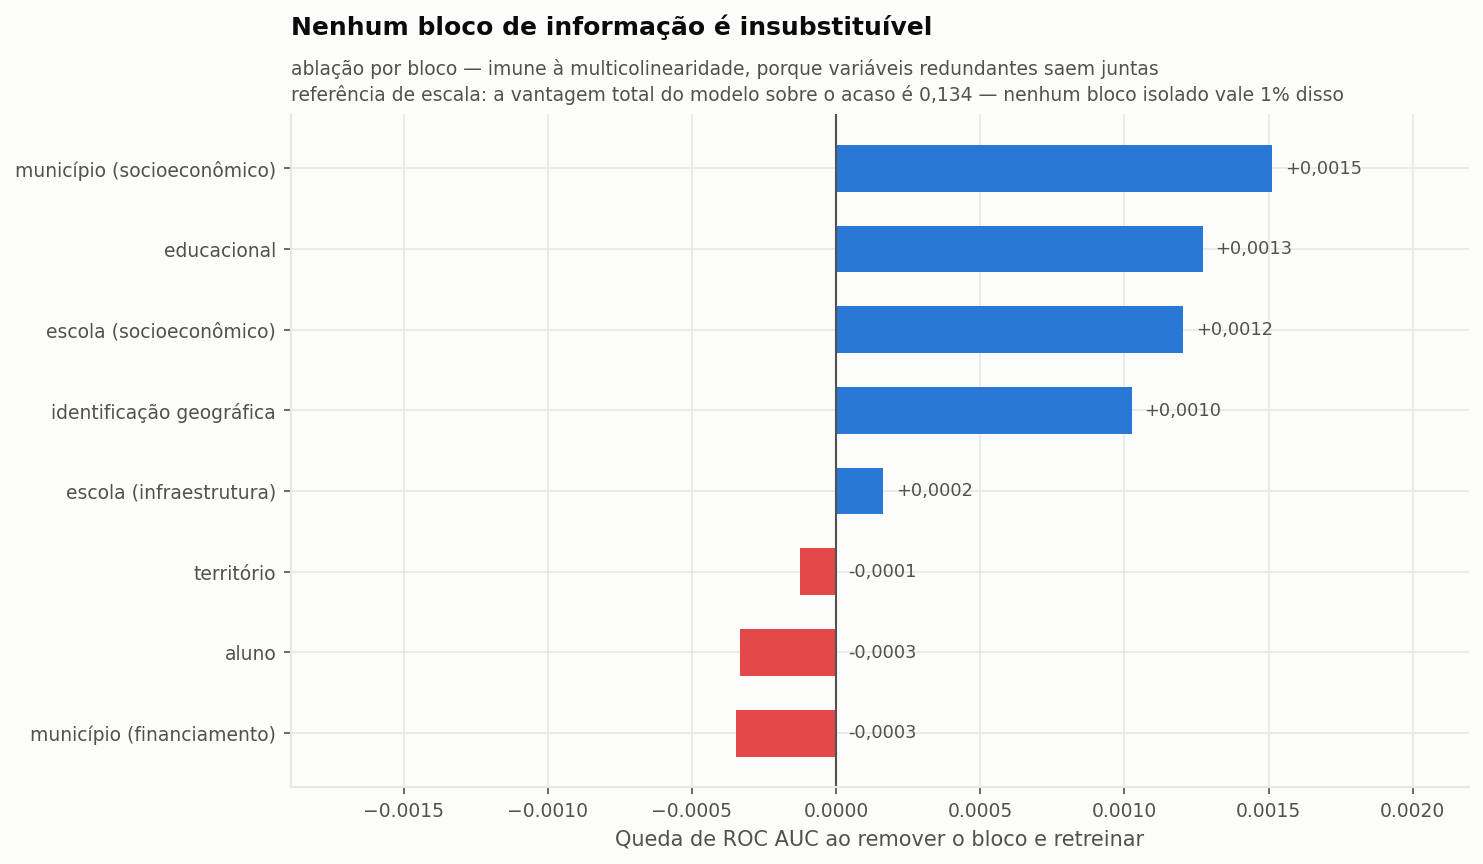
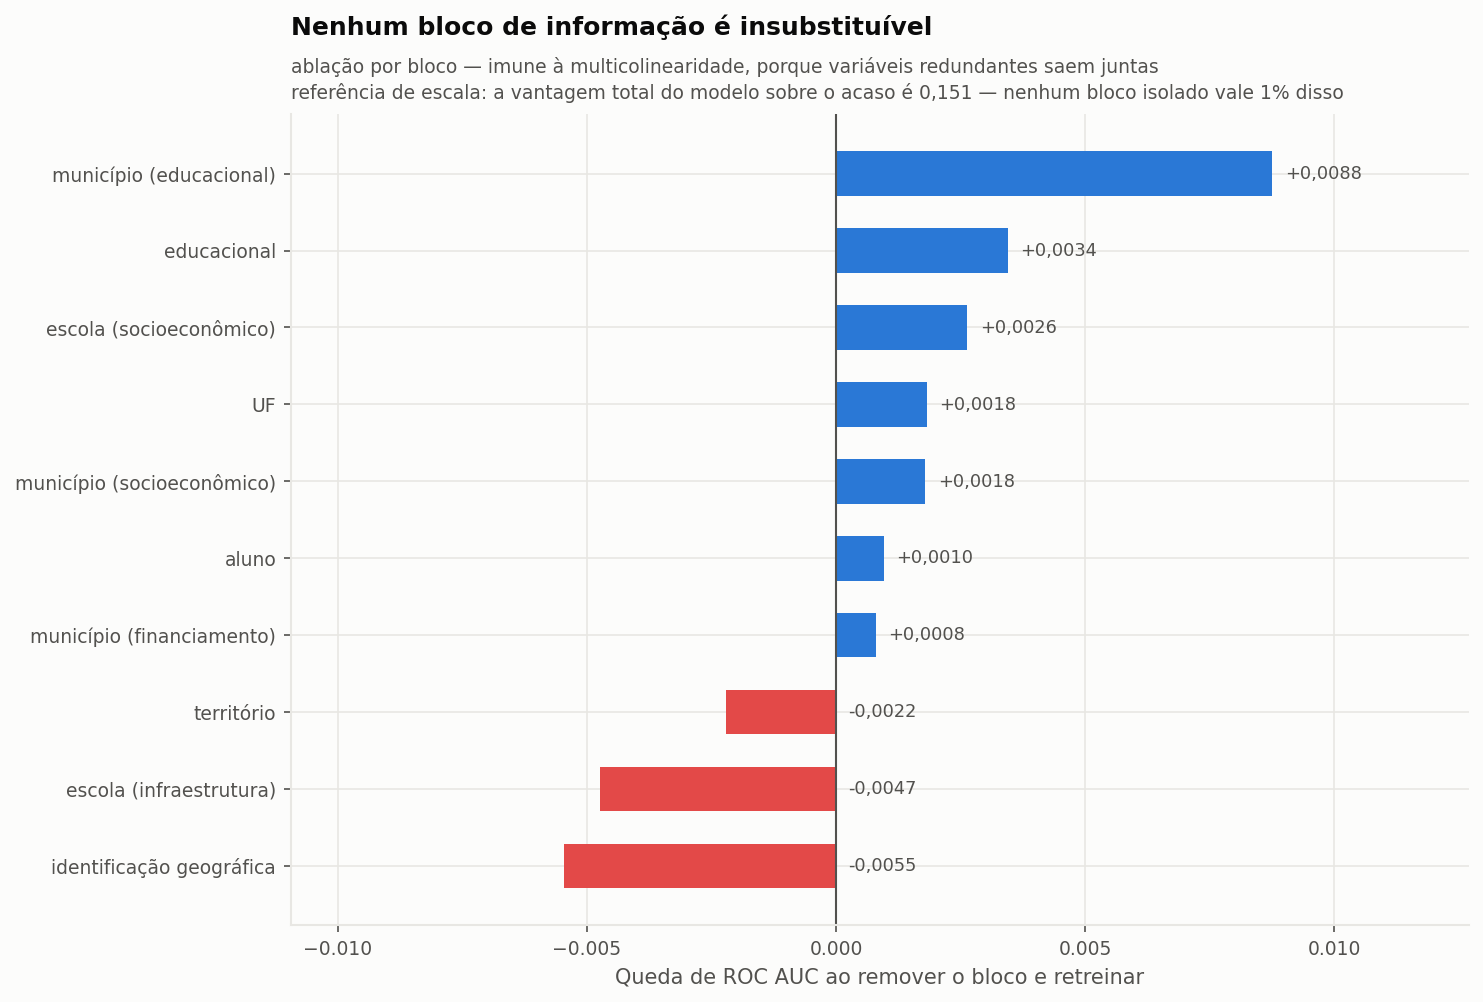
feat: ablação do Modelo B — a mesma variável ajuda ou atrapalha conforme a pergunta
A ablação do Modelo A tinha mostrado que nenhum bloco de features era
insubstituível: tudo variava dentro de 0,0015 de AUC. A do Modelo B separa os blocos
e produz o achado mais forte do projeto.

Retirar o bloco `mun_lag_*` custa **0,0088 de AUC**, mais que o dobro do segundo
colocado. É a resposta limpa a "quanto vale conhecer o passado do município?",
medida no mesmo treino e no mesmo teste — comparar a AUC do Modelo A com a do B não
responderia isso, porque os conjuntos de teste são diferentes.

E o inverso: **remover `id_municipio` e `sigla_uf` MELHORA o Modelo B em 0,0055**. No
Modelo A essa mesma variável é a mais importante por permutação (0,0600). Não há
contradição — quando os municípios de teste são novos, o target encoding devolve a
média global para todos e o que era informação vira ruído. O mesmo vale, em menor
grau, para infraestrutura escolar (−0,0047) e território (−0,0022).

A consequência é prática: não existe conjunto de features ótimo em abstrato. Um
Modelo B enxuto, sem esses três blocos, chegaria a AUC ≈ 0,66 — acima do completo. A
seleção de features é parte da especificação da pergunta, e isso entrou nas
evoluções futuras.

Também nesta leva: figuras da aplicação regeneradas para os dois desenhos, com o
resíduo ajustado pela UF e a caracterização dos cinco perfis municipais.

19 testes passando.

diff --git a/README.md b/README.md
@@ -621,8 +621,8 @@ município:
 | `ter_mesorregiao` | 0,0026 |
 | *cada uma das outras 122 variáveis* | < 0,001 |
 
-**A ablação** diz que nada disso é insubstituível. Removendo cada bloco temático
-inteiro e **retreinando**:
+**A ablação** diz que, *neste desenho*, nada disso é insubstituível. Removendo cada
+bloco temático inteiro e **retreinando** (Modelo A — treino 2023, teste 2024):
 
 | bloco removido | features restantes | ROC AUC | queda |
 |---|---:|---:|---:|
@@ -637,7 +637,8 @@ inteiro e **retreinando**:
 | município (financiamento) | 111 | 0,6341 | −0,0004 |
 
 Remover `id_municipio` e `sigla_uf` — as variáveis que a permutação aponta como
-dominantes — custa **0,0010**. Nenhum bloco, de nenhum tamanho, vale mais que 0,0015.
+dominantes — custa **0,0010**. No Modelo A, nenhum bloco, de nenhum tamanho, vale mais
+que 0,0015. (No Modelo B a história é outra, e o contraste é o assunto de §8.10.)
 
 **Não há contradição: as duas métricas respondem a perguntas diferentes.** A permutação
 pergunta *"em que este modelo ajustado se apoia?"*; a ablação pergunta *"que
@@ -685,6 +686,47 @@ vias para o mesmo sinal: a identidade do município, quando disponível, e o **c
 regional mais indicadores defasados**, quando não. As duas funcionam. O que ele não
 consegue é operar quando *nenhuma* das duas está calibrada — o caso de um estado
 inteiramente novo, onde a AUC cai para 0,568.
+
+### 8.10 A mesma variável pode ajudar ou atrapalhar — depende da pergunta
+
+A ablação do Modelo B fecha o argumento de um jeito que a do Modelo A não conseguia,
+porque ali os blocos eram todos praticamente substituíveis. Aqui eles se separam:
+
+| bloco removido | features restantes | ROC AUC | queda |
+|---|---:|---:|---:|
+| **município (educacional)** — o histórico t-1 | 128 | 0,6425 | **+0,0088** |
+| educacional (IDEB e SAEB defasados) | 106 | 0,6478 | +0,0035 |
+| escola (socioeconômico — INSE) | 127 | 0,6486 | +0,0026 |
+| UF | 135 | 0,6494 | +0,0018 |
+| município (socioeconômico) | 99 | 0,6494 | +0,0018 |
+| aluno | 135 | 0,6503 | +0,0010 |
+| município (financiamento) | 122 | 0,6504 | +0,0008 |
+| *(modelo completo)* | 137 | 0,6512 | — |
+| território | 131 | 0,6535 | **−0,0022** |
+| escola (infraestrutura) | 115 | 0,6560 | **−0,0047** |
+| **identificação geográfica** | 135 | 0,6567 | **−0,0055** |
+
+Duas leituras, e a segunda é o achado:
+
+**Primeira — quanto vale ter memória histórica.** Retirar o bloco `mun_lag_*` custa
+**0,0088 de AUC**, mais que o dobro do segundo colocado. É a resposta limpa à pergunta
+"quanto vale conhecer o passado do município?", medida no mesmo treino e no mesmo
+teste — que é por que ela não podia ser obtida comparando a AUC do Modelo A com a do B
+(§4.3).
+
+**Segunda — `id_municipio` deixa de ajudar e passa a atrapalhar.** No Modelo A ela é a
+variável mais importante por permutação (0,0600). No Modelo B, **removê-la melhora o
+modelo em 0,0055**. Não há contradição: quando os municípios de teste são novos, o
+*target encoding* devolve a média global para todos eles, e o que era informação vira
+ruído — o modelo gasta divisões numa coluna constante. O mesmo vale, em menor grau,
+para a infraestrutura escolar (−0,0047) e o território (−0,0022).
+
+**A consequência prática é direta:** *não existe um conjunto de features ótimo em
+abstrato*. Para prever em municípios já avaliados, a identidade é o ativo mais valioso.
+Para prever em municípios novos, ela deve ser **retirada** — e um Modelo B enxuto, sem
+identificação geográfica, infraestrutura e território, chegaria a AUC ≈ 0,66, acima do
+modelo completo. O conjunto de features é parte da especificação do problema, não uma
+propriedade dos dados.
 
 ![ablação por bloco](images/13_ablacao_por_bloco.png)
 
@@ -820,6 +862,13 @@ colunas atuais.
 **Recalibrar a cada onda.** O viés medido de −3,3 p.p. (§7.4) é consequência direta de
 treinar no passado: 2024 foi melhor que 2023. Em uso recorrente, uma recalibração
 anual sobre a onda mais recente corrige o nível sem retreinar o modelo inteiro.
+
+**Selecionar features por desenho, e não uma vez só.** A ablação do Modelo B (§8.10)
+mostra que três blocos — identificação geográfica, infraestrutura escolar e território
+— **pioram** o modelo quando o alvo são municípios novos, somando 0,012 de AUC
+desperdiçados. Um Modelo B enxuto chegaria a AUC ≈ 0,66, acima do modelo completo. A
+seleção de features deveria ser parte do desenho de cada pergunta, com validação
+aninhada para não virar sobreajuste ao conjunto de teste.
 
 **Modelo hierárquico (multinível).** A estrutura aluno ⊂ escola ⊂ município é
 naturalmente hierárquica. Um modelo de efeitos mistos estimaria a variância em cada

diff --git a/reports/interpretabilidade_espacial.md b/reports/interpretabilidade_espacial.md
@@ -1,0 +1,95 @@
+# Interpretabilidade — desenho `espacial`
+
+Modelo: **LGBMClassifier** · 137 features.
+
+Quatro leituras, propositalmente diferentes. Quando elas discordam, a discordância é informação: importância nativa alta com permutação baixa indica variável que o modelo usou para ajustar ruído.
+
+## 1. Importância nativa (ganho)
+
+| feature | bloco | importancia |
+|---|---|---|
+| `alu_caderno` | aluno | 5603 |
+| `id_municipio` | identificação geográfica | 4309 |
+| `sigla_uf` | identificação geográfica | 1225 |
+| `ter_mesorregiao` | território | 1061 |
+| `edu_abandono_ai_lag1` | educacional | 588 |
+| `inse_tamanho_medio_escola` | escola (socioeconômico) | 572 |
+| `edu_tdi_anos_iniciais` | educacional | 556 |
+| `fin_pct_mde_sobre_impostos` | município (financiamento) | 521 |
+| `inse_desvio_vs_uf` | escola (socioeconômico) | 509 |
+| `edu_ideb_ai_rede_do_aluno` | educacional | 509 |
+| `inf_alunos_por_docente_ai` | escola (infraestrutura) | 508 |
+| `inf_dispositivos_por_aluno` | escola (infraestrutura) | 499 |
+| `mun_lag_pct_participacao` | município (educacional) | 481 |
+| `inf_alunos_por_turma_ai` | escola (infraestrutura) | 479 |
+| `ses_prop_crianca_fora_escola` | município (socioeconômico) | 471 |
+
+![nativa](../images/12a_importancia_nativa_espacial.png)
+
+## 2. Importância por permutação (queda de AUC no teste)
+
+A medida honesta: quanto a generalização piora ao embaralhar a coluna.
+
+| feature | bloco | queda_auc | desvio |
+|---|---|---|---|
+| `edu_ideb_ai_rede_do_aluno` | educacional | 0,02445 | 0,00091 |
+| `mun_lag_media_portugues` | município (educacional) | 0,00834 | 0,00031 |
+| `sigla_uf` | identificação geográfica | 0,00799 | 0,00016 |
+| `ter_mesorregiao` | território | 0,00724 | 0,00046 |
+| `inse_medio_uf` | escola (socioeconômico) | 0,00471 | 0,00007 |
+| `ter_latitude` | território | 0,00183 | 0,00009 |
+| `mun_lag_taxa_observada` | município (educacional) | 0,00177 | 0,00028 |
+| `mun_lag_taxa_oficial` | município (educacional) | 0,00156 | 0,00023 |
+| `edu_saeb_nota_mat` | educacional | 0,00146 | 0,00005 |
+| `edu_reprovacao_ai_lag1` | educacional | 0,00133 | 0,00003 |
+| `edu_ideb_ai_uf` | educacional | 0,00121 | 0,00004 |
+| `inse_min_escola` | escola (socioeconômico) | 0,00094 | 0,00012 |
+| `ter_longitude` | território | 0,00083 | 0,00009 |
+| `alu_caderno` | aluno | 0,00082 | 0,00050 |
+| `ses_prop_pobreza_criancas` | município (socioeconômico) | 0,00078 | 0,00003 |
+
+![permutação](../images/12b_importancia_permutacao_espacial.png)
+
+## 3. SHAP
+
+Decomposição aditiva de cada predição individual.
+
+| feature | shap_medio_abs |
+|---|---|
+| `edu_ideb_ai_rede_do_aluno` | 0,06259 |
+| `id_municipio` | 0,04862 |
+| `ter_mesorregiao` | 0,04506 |
+| `mun_lag_media_portugues` | 0,03369 |
+| `sigla_uf` | 0,02659 |
+| `inf_n_escolas_ai` | 0,02041 |
+| `alu_caderno` | 0,01934 |
+| `mun_lag_taxa_observada` | 0,01834 |
+| `alu_rede_Estadual` | 0,01721 |
+| `alu_rede_Municipal` | 0,01693 |
+| `inse_medio_uf` | 0,01687 |
+| `mun_lag_taxa_oficial` | 0,01021 |
+| `mun_lag_pct_participacao` | 0,00782 |
+| `ter_latitude` | 0,00744 |
+| `inse_desvio_vs_uf` | 0,00675 |
+
+![shap](../images/14_shap_espacial.png)
+
+## 4. Ablação por bloco
+
+Remove um bloco temático inteiro e mede a perda. É a leitura que sobrevive à multicolinearidade.
+
+| bloco | n_features | roc_auc | queda_auc |
+|---|---|---|---|
+| sem município (educacional) | 128 | 0,64248 | 0,00876 |
+| sem educacional | 106 | 0,64779 | 0,00345 |
+| sem escola (socioeconômico) | 127 | 0,64860 | 0,00264 |
+| sem UF | 135 | 0,64942 | 0,00183 |
+| sem município (socioeconômico) | 99 | 0,64945 | 0,00179 |
+| sem aluno | 135 | 0,65028 | 0,00096 |
+| sem município (financiamento) | 122 | 0,65044 | 0,00080 |
+| (modelo completo) | 137 | 0,65124 | 0,00000 |
+| sem território | 131 | 0,65346 | -0,00222 |
+| sem escola (infraestrutura) | 115 | 0,65597 | -0,00473 |
+| sem identificação geográfica | 135 | 0,65671 | -0,00546 |
+
+![ablação](../images/13_ablacao_por_bloco.png)

diff --git a/reports/aplicacao_temporal.md b/reports/aplicacao_temporal.md
@@ -13,7 +13,7 @@ A predição individual de alfabetização tem teto baixo: o desfecho de uma cri
 | viés | -3,28 p.p. |
 | R² | 0,447 |
 
-![calibração municipal](../images/20_calibracao_municipal.png)
+![calibração municipal](../images/20_calibracao_municipal_temporal.png)
 
 ## Quais municípios apresentam maior risco educacional
 
@@ -43,7 +43,7 @@ O risco absoluto em geral apenas reflete a pobreza do território. O **resíduo*
 
 Mas o resíduo bruto tem um defeito, e ele apareceu na primeira versão desta análise: **confunde gestão municipal com deriva do estado inteiro**. Como o Rio Grande do Sul caiu 18,9 p.p. entre 2023 e 2024, municípios gaúchos ocupavam 4 das 10 piores posições — por um motivo que nada tem a ver com as redes municipais. A coluna reportada aqui é o **resíduo ajustado**: o resíduo menos a mediana do resíduo da própria UF. O que sobra é o desvio do município em relação aos seus pares estaduais.
 
-![resíduos](../images/21_residuos_municipais.png)
+![resíduos](../images/21_residuos_municipais_temporal.png)
 
 ### Abaixo dos pares estaduais
 
@@ -79,15 +79,17 @@ Mas o resíduo bruto tem um defeito, e ele apareceu na primeira versão desta an
 
 Agrupamento em 5 perfis por **contexto** (vulnerabilidade, demografia, INSE, docência, infraestrutura, financiamento). O alvo ficou deliberadamente de fora: assim a taxa de alfabetização de cada grupo é um resultado da análise, não o critério que a produziu.
 
-![grupos](../images/22_grupos_municipais.png)
+![grupos](../images/22_grupos_municipais_temporal.png)
 
-| grupo | municípios | % alfabetizados |
-|---|---:|---:|
-| 1 | 622 | 52,6% |
-| 2 | 1.138 | 57,9% |
-| 3 | 763 | 60,5% |
-| 4 | 1.370 | 67,6% |
-| 5 | 1.080 | 69,9% |
+Cada perfil é descrito pelas variáveis em que mais se afasta da média dos grupos (↑ acima, ↓ abaixo):
+
+| grupo | municípios | % alfabetizados | o que caracteriza |
+|---|---:|---:|---|
+| 1 | 622 | 52,6% | ↑ ses_share_pop_5a9 · ↓ inf_pct_internet_aprendizagem · ↑ edu_docentes_superior_ai · ↓ ses_idade_mediana |
+| 2 | 1.138 | 57,9% | ↑ ses_taxa_pbf · ↓ ses_log_renda_per_capita · ↓ inse_medio · ↓ ses_taxa_alfab_adultos_25a44 |
+| 3 | 763 | 60,5% | ↑ edu_tdi_anos_iniciais · ↑ inf_alunos_por_turma_ai · ↑ inf_pct_internet_aprendizagem · ↑ ses_taxa_alfab_adultos_25a44 |
+| 4 | 1.370 | 67,6% | ↑ ses_idhm_educacao · ↑ ses_log_renda_per_capita · ↑ inse_medio · ↓ ses_taxa_pbf |
+| 5 | 1.080 | 69,9% | ↑ fin_invest_aluno_ens_fund · ↓ edu_tdi_anos_iniciais · ↓ inf_alunos_por_turma_ai · ↑ ses_idade_mediana |
 
 ## Quais municípios podem não atingir a meta
 
